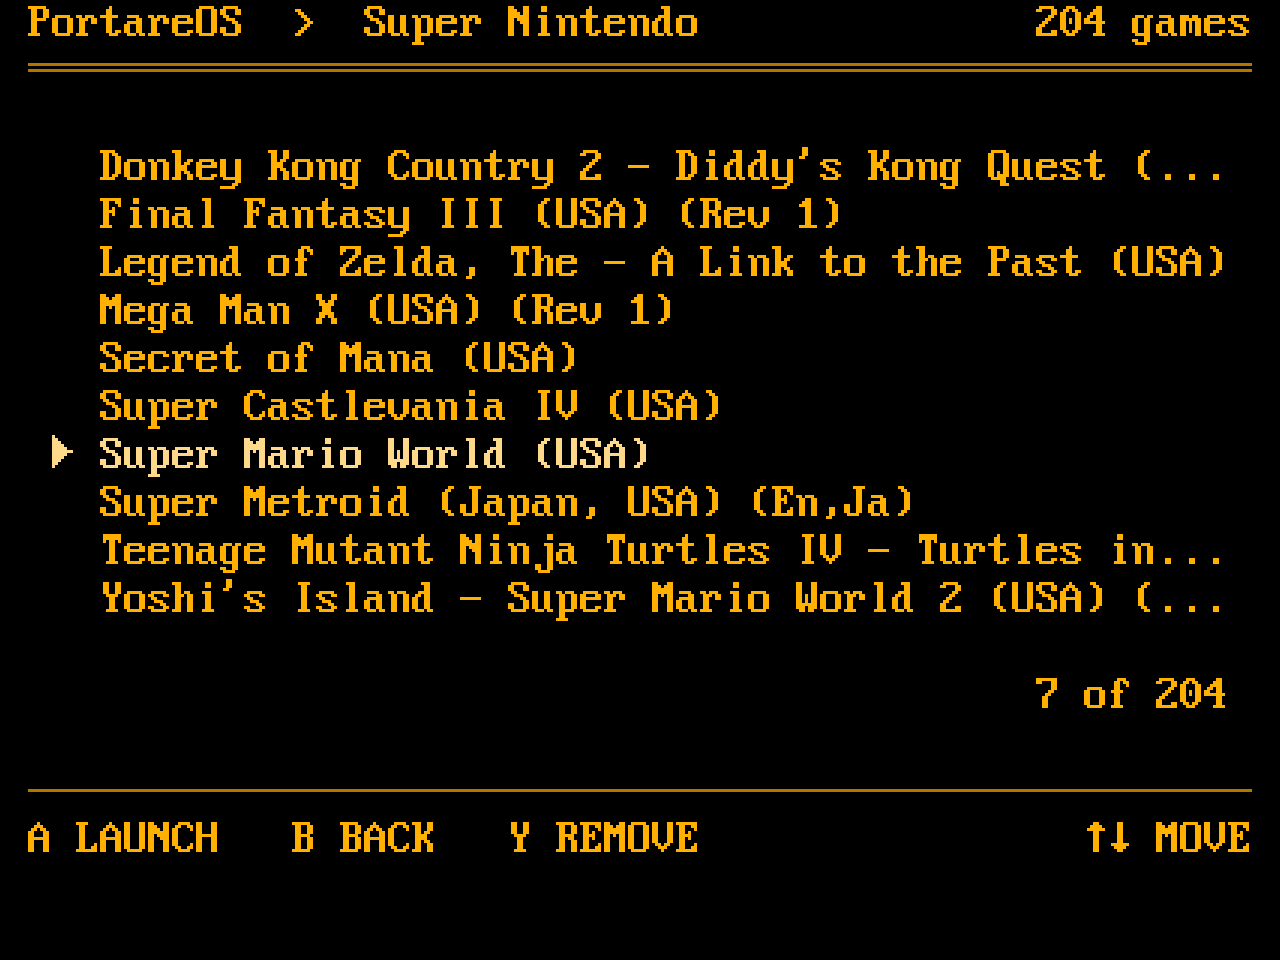
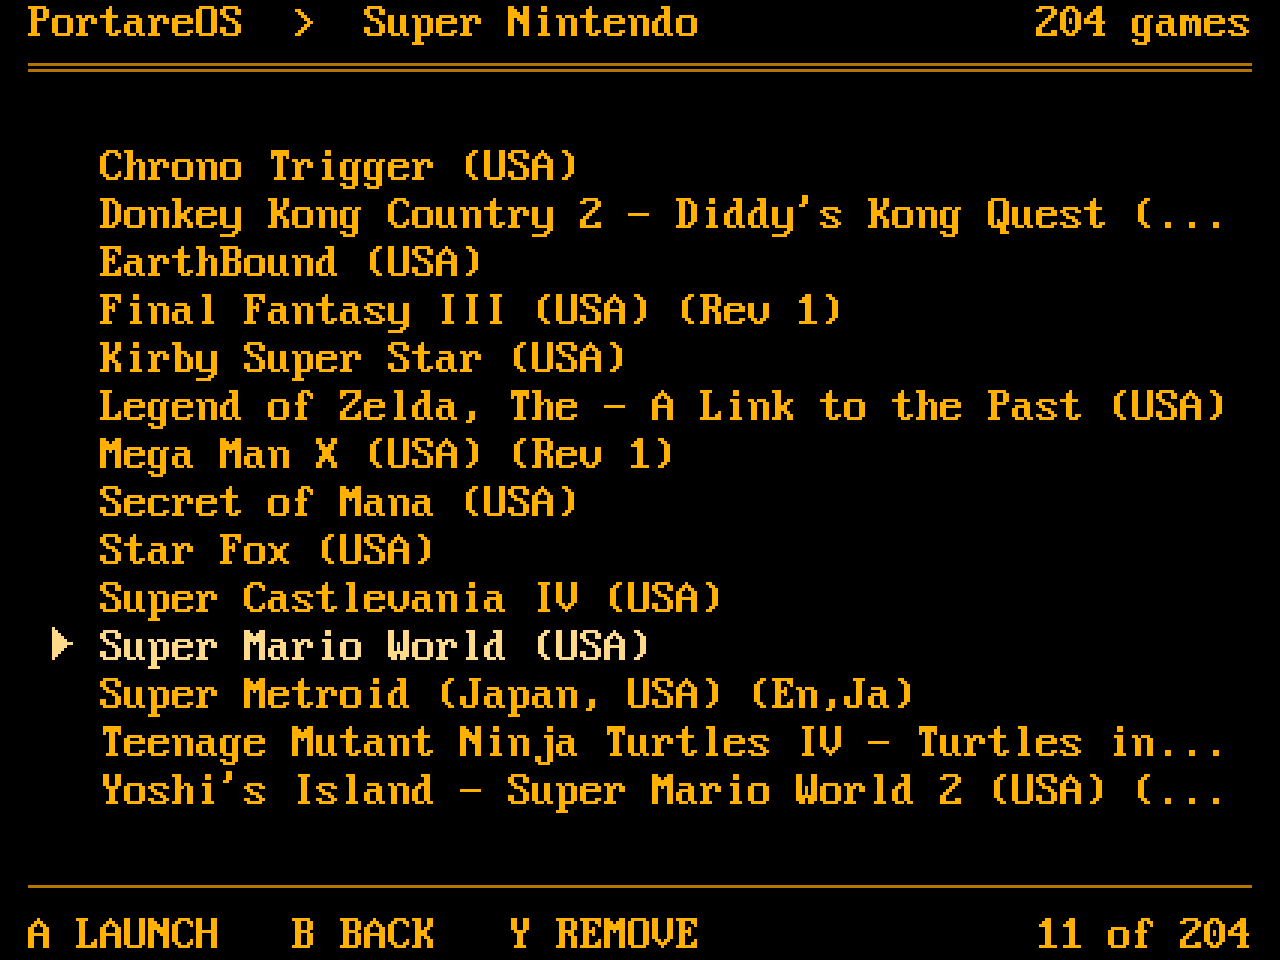
mockup: the position in the footer, four more games on screen
9 of 204 takes the footer's right end, where the MOVE hint was; the
d-pad needs no hint. The row the count had and the blanks around it go
to the list, 14 games instead of 10. Same in Recent and Favourites.

diff --git a/tools/mockup.py b/tools/mockup.py
@@ -39,9 +39,8 @@ GAMES = ["Tekken 2", "Tekken 3", "Tomb Raider", "Tony Hawk's Pro Skater 2",
          "Vagrant Story", "Wipeout XL", "Xenogears"]
 games = [row(" PortareOS  \u203a  PlayStation", "112 games "), RULE, ""]
 games += [item(n == "Tekken 3", n) for n in GAMES]
-games += [""] * 4
-games += [row("", "8 of 112  "), "", THIN,
-          row(" A LAUNCH   B BACK", "\u2191\u2193 MOVE ")]
+games += [""] * (ROWS - 2 - len(games))
+games += [THIN, row(" A LAUNCH   B BACK", "8 of 112 ")]
 
 SET = [("Wi-Fi", "Hofmann-5G"), ("SSH", "on"), ("Bluetooth", "WH-1000XM4"),
        ("USB gadget mode", "network"), ("Button style", "Retroid"),
@@ -232,14 +231,21 @@ def game(sel, title, shift=0):
 
 # The footer is the favourite cue: Y FAVOURITE under a game that is not
 # one, Y REMOVE under one that is. Nothing in the list itself says so.
-def games_footer(fav):
+# Its right end carries the position, "9 of 204", where the MOVE hint
+# used to be: the d-pad needs no hint, and the row the count had, with
+# the blanks around it, goes to the list - 14 games on screen, not 10.
+def games_footer(fav, pos, total):
     return row(" A LAUNCH   B BACK   Y " + ("REMOVE" if fav else "FAVOURITE"),
-               "\u2191\u2193 MOVE ")
-SNES = [("Donkey Kong Country 2 - Diddy's Kong Quest (USA) (En,Fr)", False),
+               "%d of %d " % (pos, total))
+SNES = [("Chrono Trigger (USA)", False),
+        ("Donkey Kong Country 2 - Diddy's Kong Quest (USA) (En,Fr)", False),
+        ("EarthBound (USA)", False),
         ("Final Fantasy III (USA) (Rev 1)", True),
+        ("Kirby Super Star (USA)", False),
         ("Legend of Zelda, The - A Link to the Past (USA)", True),
         ("Mega Man X (USA) (Rev 1)", False),
         ("Secret of Mana (USA)", False),
+        ("Star Fox (USA)", False),
         ("Super Castlevania IV (USA)", False),
         ("Super Mario World (USA)", True),
         ("Super Metroid (Japan, USA) (En,Ja)", False),
@@ -249,8 +255,8 @@ def games_screen(selected, shift=0):
     lines = [row(" PortareOS  \u203a  Super Nintendo", "204 games "), RULE, ""]
     lines += [game(t == selected, t, shift=shift) for t, _ in SNES]
     n = 1 + [t for t, _ in SNES].index(selected)
-    fav = dict(SNES)[selected]
-    return lines + ["", row("", "%d of 204  " % n), "", THIN, games_footer(fav)]
+    lines += [""] * (ROWS - 2 - len(lines))
+    return lines + [THIN, games_footer(dict(SNES)[selected], n, 204)]
 
 games_long = games_screen("Teenage Mutant Ninja Turtles IV - Turtles in Time (USA)", shift=9)
 games_fav = games_screen("Super Mario World (USA)")
@@ -270,7 +276,7 @@ def across(sel, title, right):
 recent = [row(" PortareOS  \u203a  Recently played", "10 games "), RULE, ""]
 recent += [across(i == 0, t, "%-5s%9s" % (sy, d)) for i, (t, sy, d) in enumerate(RECENT)]
 recent += [""] * (ROWS - 2 - len(recent))
-recent += [THIN, row(" A LAUNCH   B BACK   Y FAVOURITE", "\u2191\u2193 MOVE ")]
+recent += [THIN, games_footer(False, 1, 10)]
 
 # One file, a game path per line, pruned of paths that no longer exist
 # when it is read. Y toggles the selected game wherever a game is listed;
@@ -284,7 +290,7 @@ FAVS = [("Final Fantasy III (USA) (Rev 1)", "SNES"),
 favourites = [row(" PortareOS  \u203a  Favourites", "7 games "), RULE, ""]
 favourites += [across(i == 2, t, sy) for i, (t, sy) in enumerate(FAVS)]
 favourites += [""] * (ROWS - 2 - len(favourites))
-favourites += [THIN, row(" A LAUNCH   B BACK   Y REMOVE", "\u2191\u2193 MOVE ")]
+favourites += [THIN, games_footer(True, 3, 7)]
 
 if __name__ == "__main__":
     for t, s in (("SYSTEMS", systems), ("GAMES", games),

diff --git a/docs/lists.md b/docs/lists.md
@@ -52,4 +52,9 @@ in view, 1.5 seconds there, back to the start, and again. No wrap, so the
 ending the reader was after is not followed by what they already read.
 Only the selected row ever moves.
 
+The position, `9 of 204`, sits at the right end of the footer where the
+`↑↓ MOVE` hint was; a d-pad needs no hint. The row the count had, and the
+blank rows around it, go to the list: fourteen games on screen instead of
+ten.
+
 ![Games, long titles](images/games-long-titles.png)
